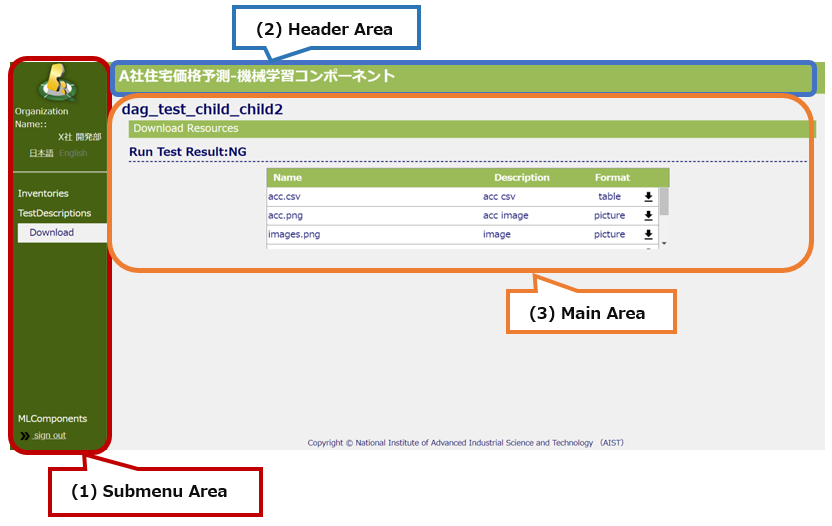
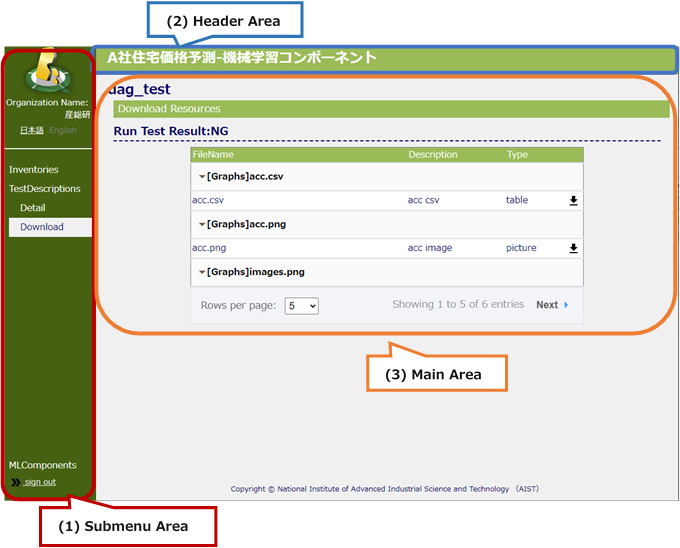
ユーザマニュアル（画面イメージ）更新

diff --git a/docs/user-manual/_static/pygments.css b/docs/user-manual/_static/pygments.css
@@ -1,4 +1,4 @@
-pre { line-height: 125%; margin: 0; }
+pre { line-height: 125%; }
 td.linenos pre { color: #000000; background-color: #f0f0f0; padding-left: 5px; padding-right: 5px; }
 span.linenos { color: #000000; background-color: #f0f0f0; padding-left: 5px; padding-right: 5px; }
 td.linenos pre.special { color: #000000; background-color: #ffffc0; padding-left: 5px; padding-right: 5px; }
